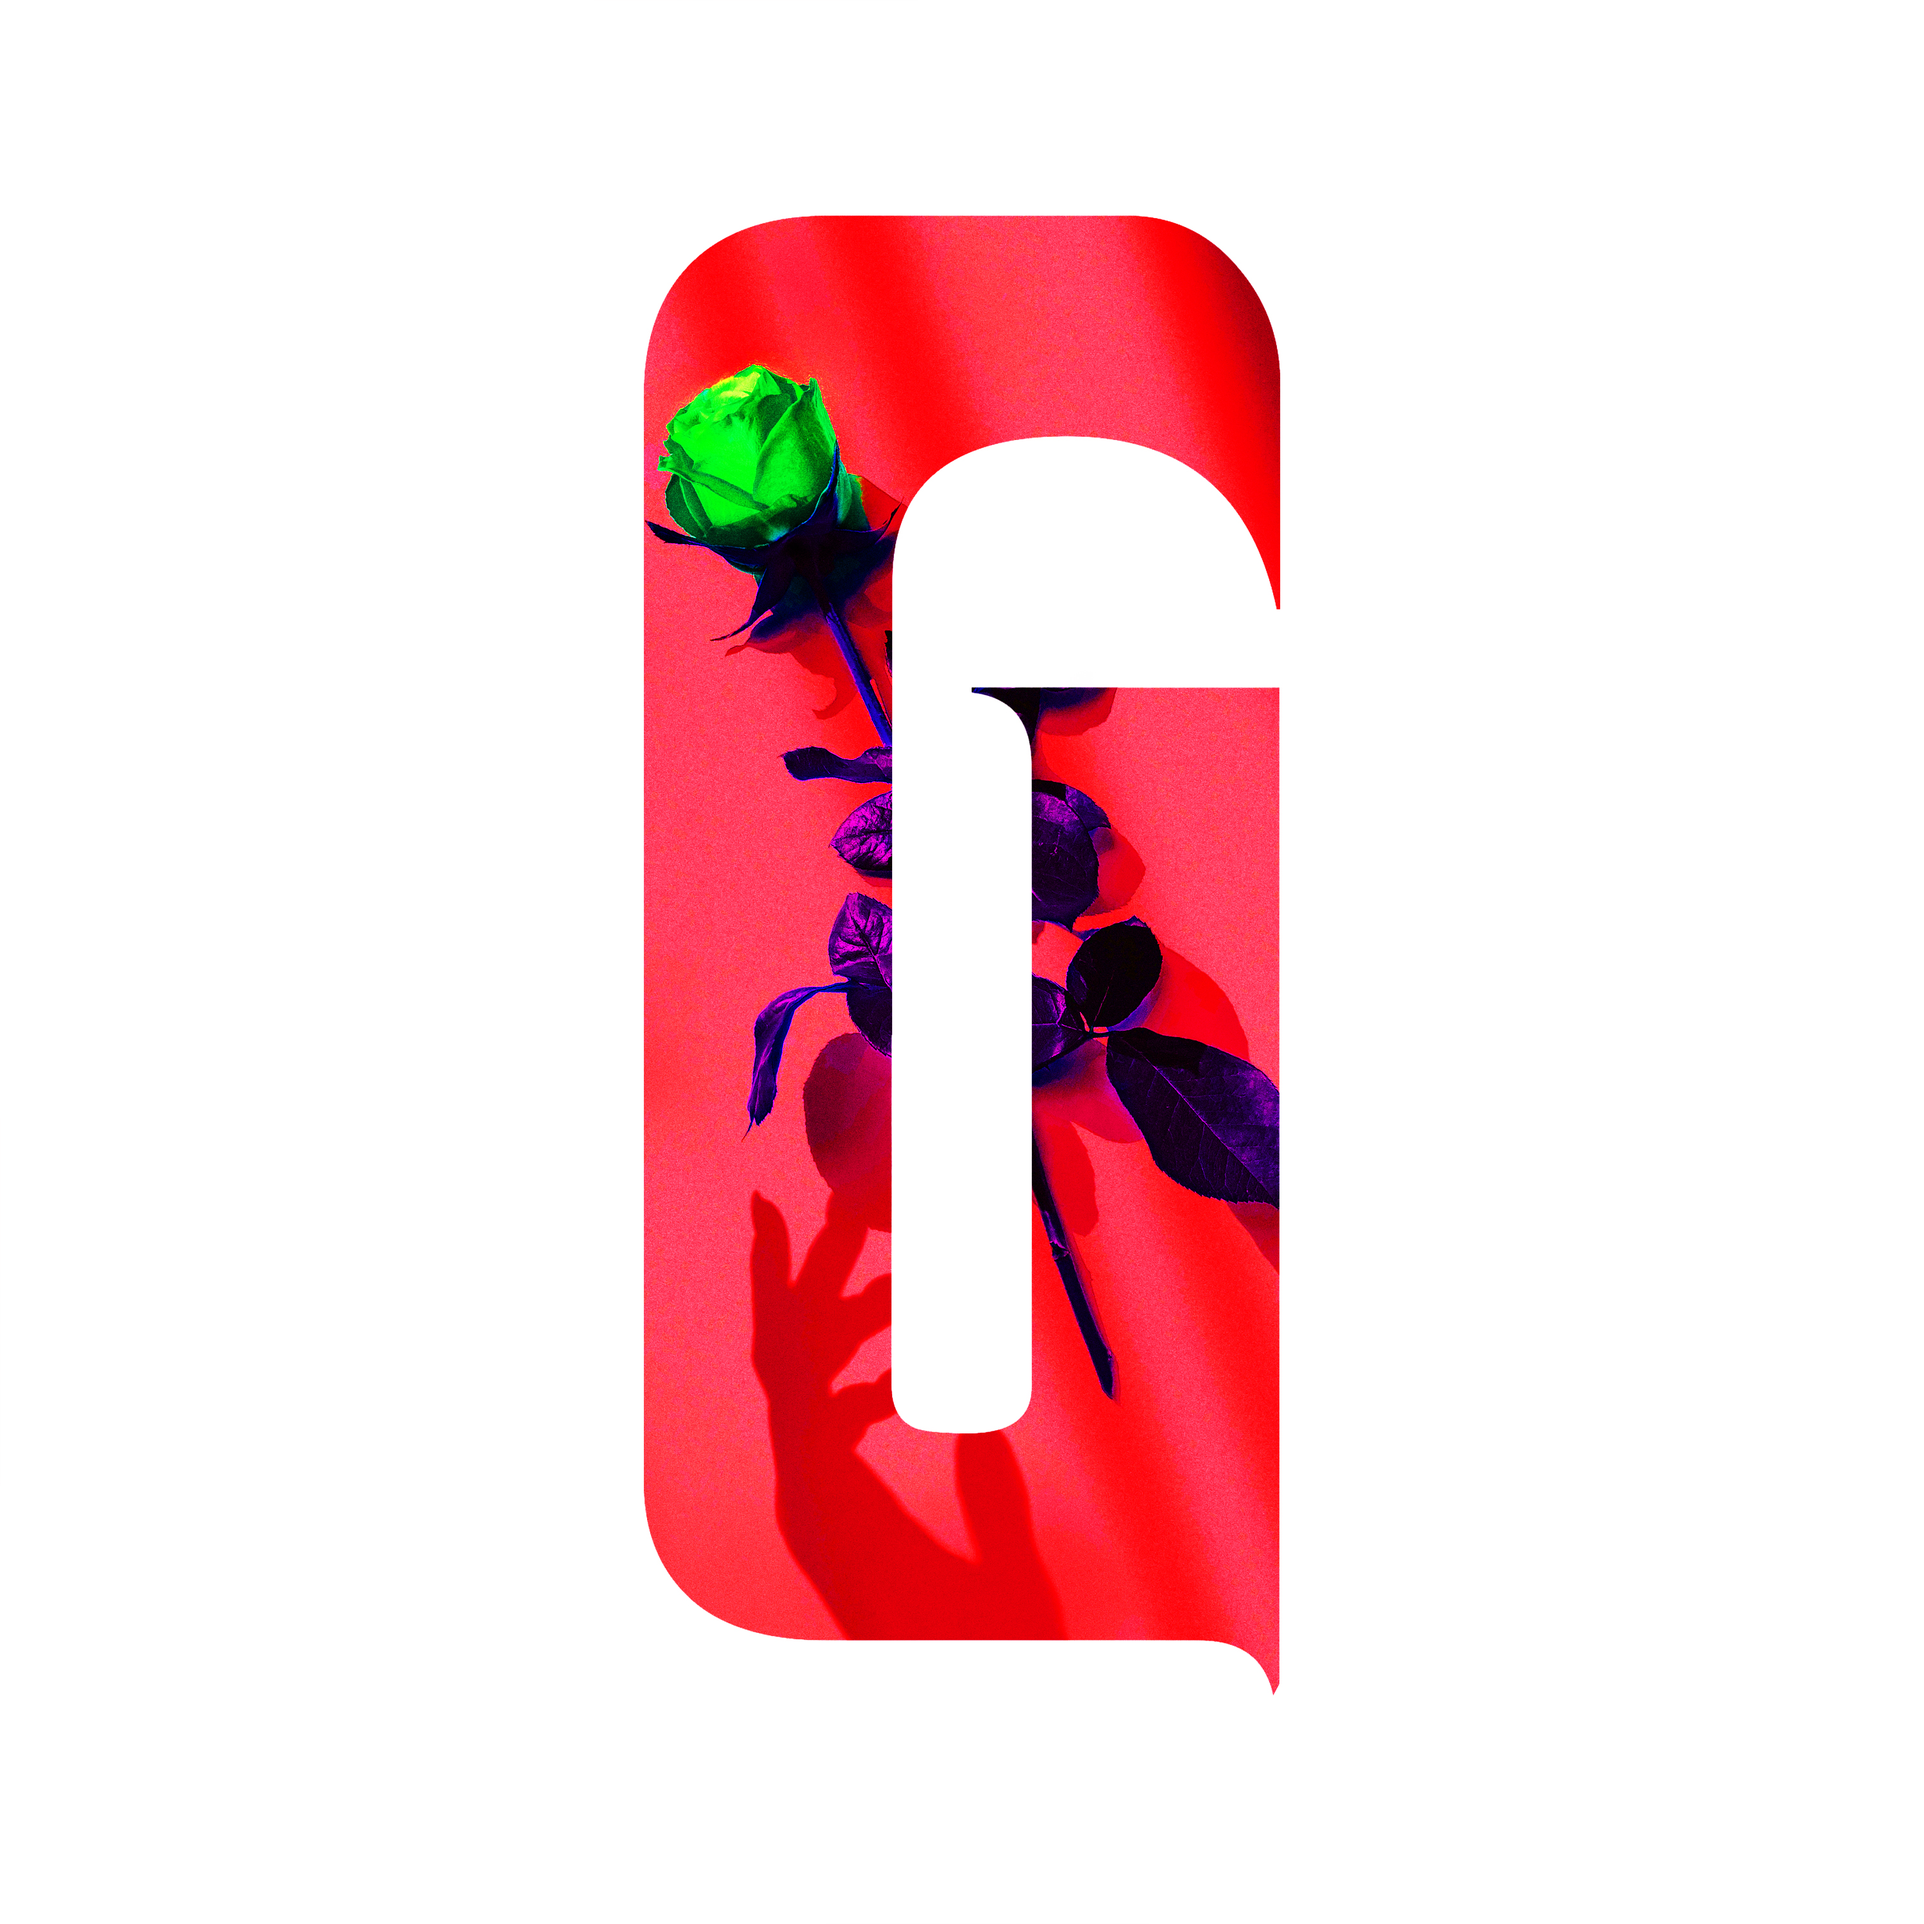
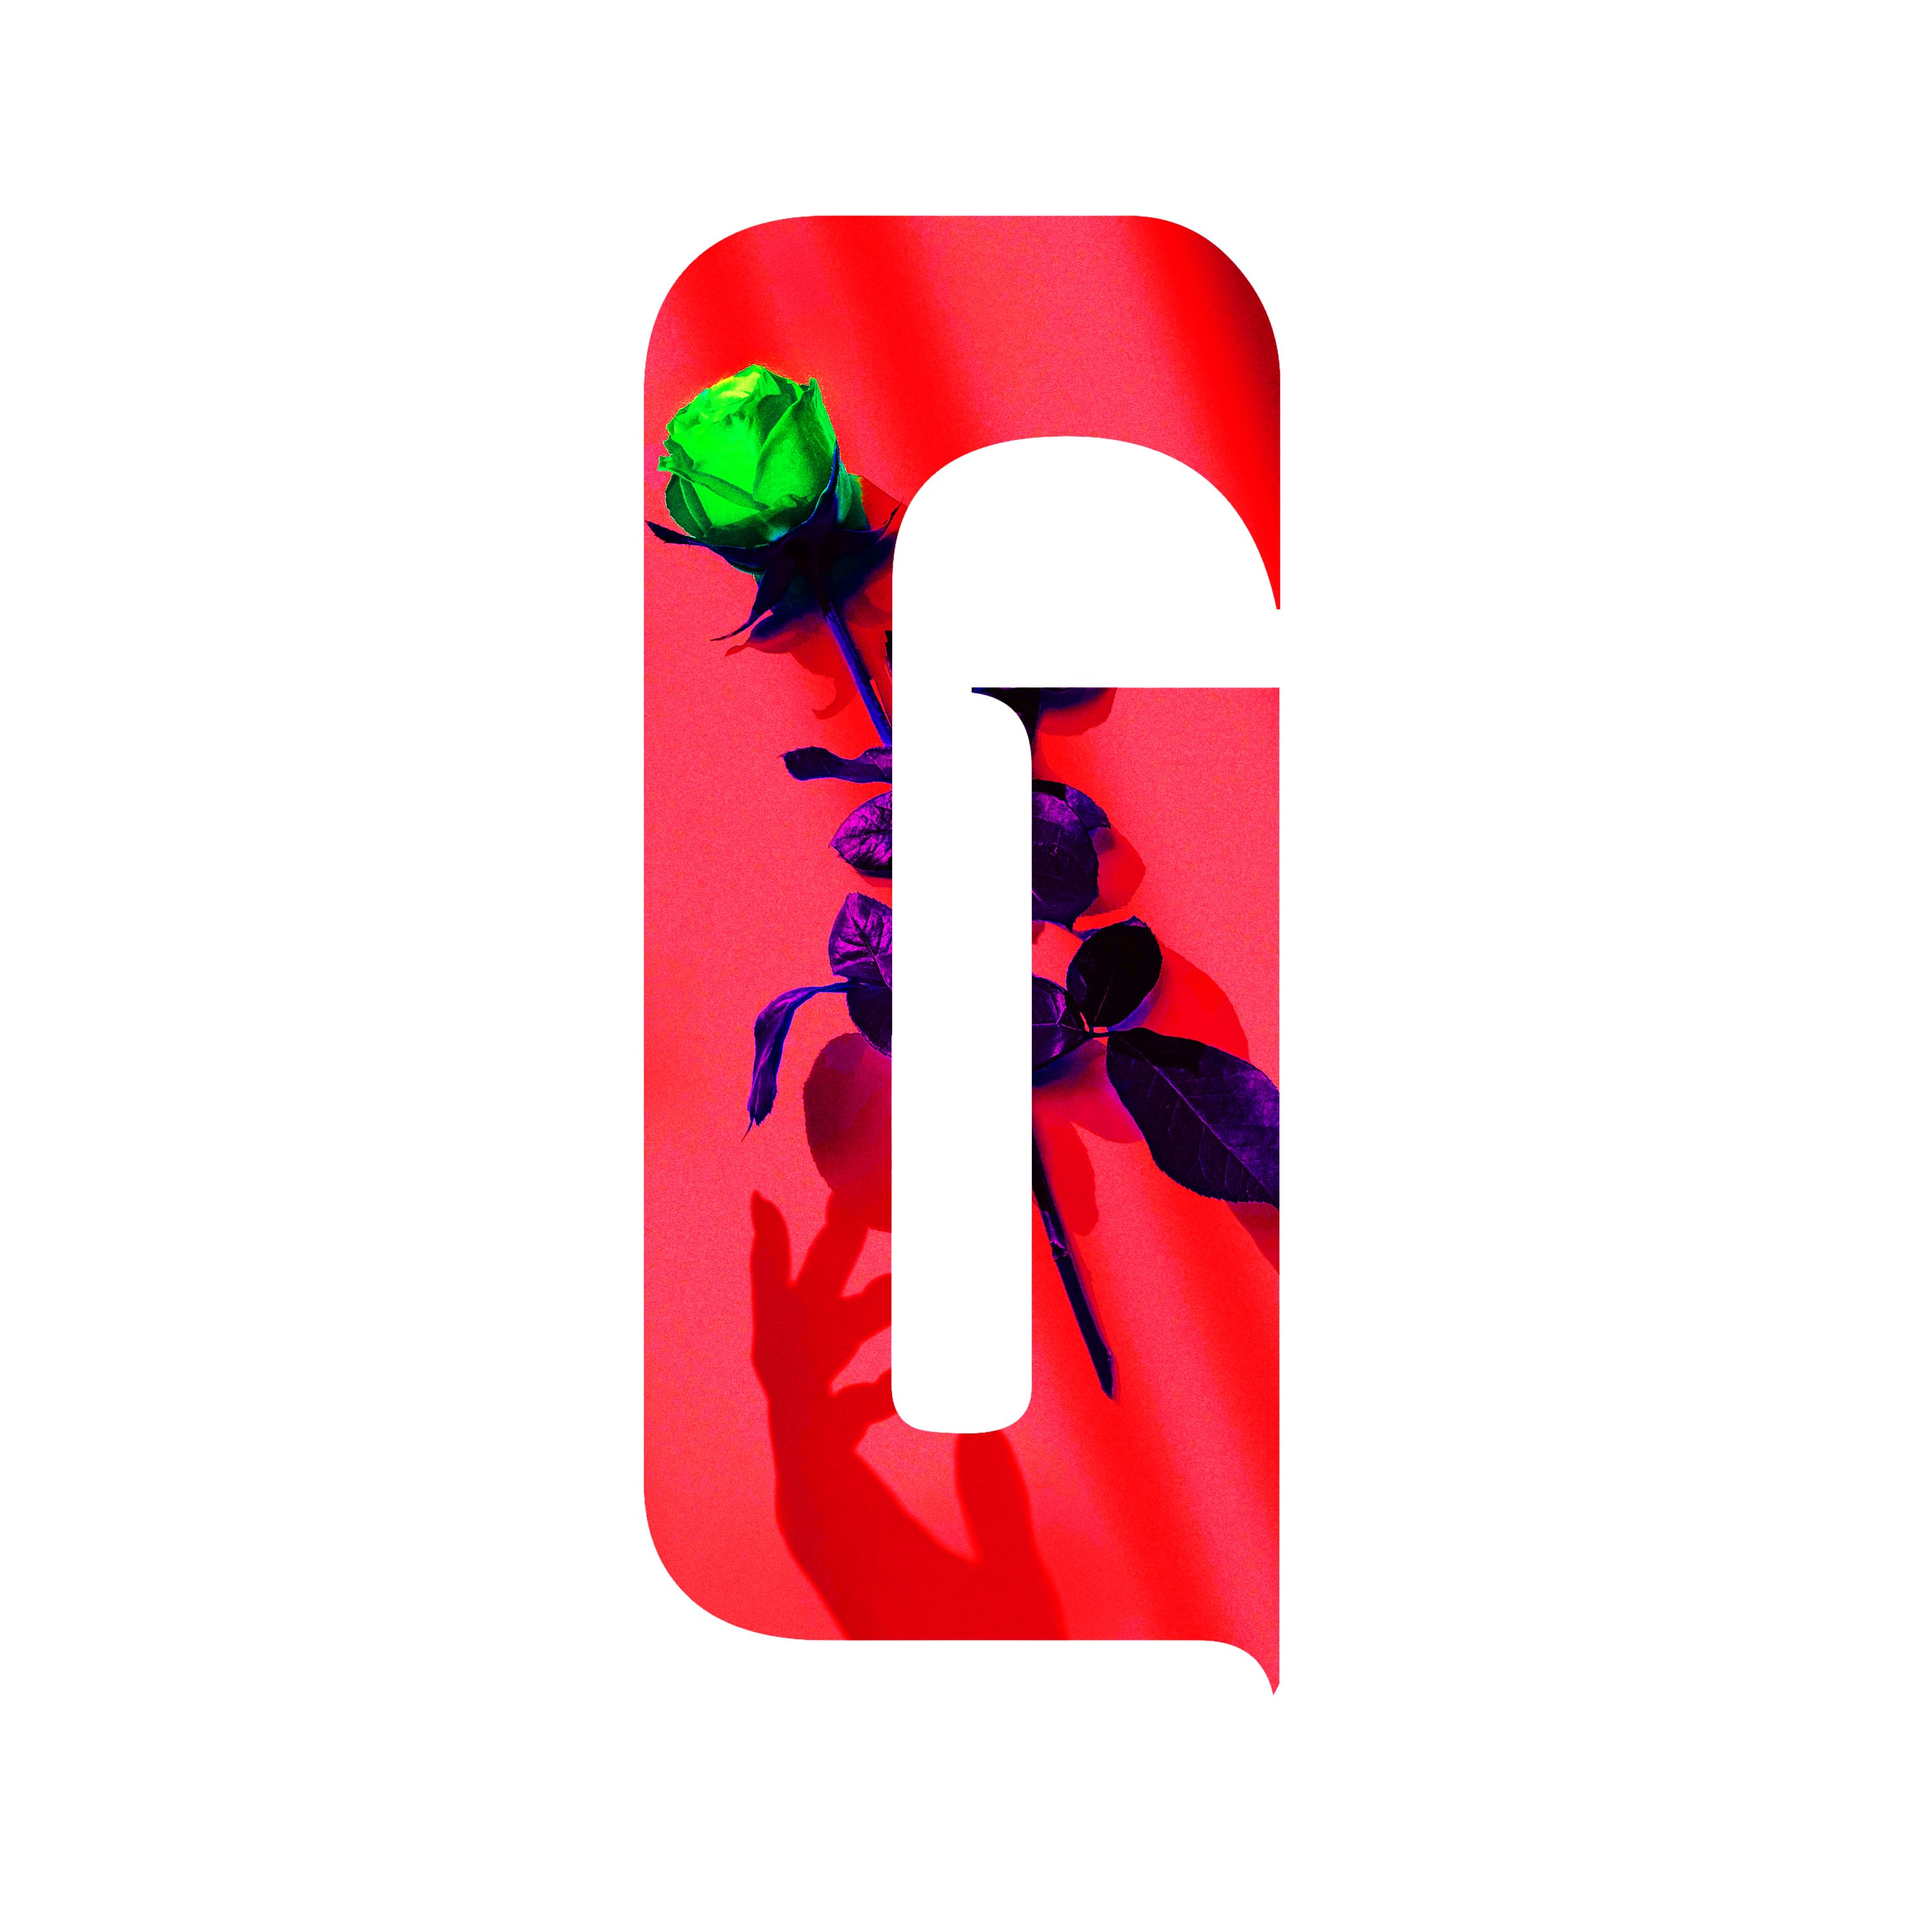
Compressed images, redirect 404 to home

diff --git a/src/utils/content.ts b/src/utils/content.ts
@@ -8,7 +8,7 @@ export const content: pageOptions[] = [
 	// 	buttonTextColor: "#FFFFFF",
 	// 	backgroundColor: "#000000",
 	// 	iconColor: "#FFFFFF",
-	// 	coverURL: "/images/nightmare-cover.png",
+	// 	coverURL: "/images/nightmare-cover.jpg",
 	// 	pagePath: "/nightmare",
 	// },
 	{
@@ -31,7 +31,7 @@ export const content: pageOptions[] = [
 		buttonTextColor: "#FFFFFF",
 		backgroundColor: "#FFFFFF",
 		iconColor: "#7C67A6",
-		coverURL: "/images/aurora-edit-cover.png",
+		coverURL: "/images/aurora-edit-cover.jpg",
 		youtubeLink: "https://www.youtube.com/watch?v=Bww_cOc51XQ",
 		pagePath: "/auroraedit",
 	},
@@ -42,7 +42,7 @@ export const content: pageOptions[] = [
 		buttonTextColor: "#FFFFFF",
 		backgroundColor: "#FFFFFF",
 		iconColor: "#90D8F6",
-		coverURL: "/images/miku-remix-cover.png",
+		coverURL: "/images/miku-remix-cover.jpg",
 		youtubeLink: "https://www.youtube.com/watch?v=Xqptytq79nQ",
 		pagePath: "/mikuremix",
 	},
@@ -53,7 +53,7 @@ export const content: pageOptions[] = [
 		buttonTextColor: "#FFFFFF",
 		backgroundColor: "#080808",
 		iconColor: "#FFFFFF",
-		coverURL: "/images/afterlife-cover.png",
+		coverURL: "/images/afterlife-cover.jpg",
 		youtubeLink: "https://www.youtube.com/watch?v=THFg6CL_VqU",
 		spotifyLink: "https://open.spotify.com/track/5qAomWwo2ocnha3158aP8H?si=92642bf48a3243ba",
 		soundcloudLink: "https://soundcloud.com/niek_o/afterlife-full",
@@ -66,7 +66,7 @@ export const content: pageOptions[] = [
 		buttonTextColor: "#FFFFFF",
 		backgroundColor: "#111111",
 		iconColor: "#FFFFFF",
-		coverURL: "/images/party-girl-cover.png",
+		coverURL: "/images/party-girl-cover.jpg",
 		youtubeLink: "https://www.youtube.com/watch?v=vwRuZuPILL0&list=PL41zV4hHhDYYe2ZSrK9eC2uIVV_tmodGL",
 		spotifyLink: "https://open.spotify.com/album/4zm0HzCLKT7XJO8bAz29P5?si=wlqJ6lHOTku8arx2Z8dmWQ",
 		soundcloudLink: "https://soundcloud.com/niek_o/sets/party-girl",

diff --git a/src/views/HoldMeNow.vue b/src/views/HoldMeNow.vue
@@ -6,7 +6,7 @@ const data = findItem("HOLD ME NOW")!
 </script>
 
 <template>
-  <img src="/images/hold-me-now-background.png" alt="Album cover" class="background object-cover w-full h-full">
+  <img src="/images/hold-me-now-background.jpg" alt="Album cover" class="background object-cover w-full h-full">
   <FullCard :track=data class="frame"/>
 </template>
 

diff --git a/src/router/index.ts b/src/router/index.ts
@@ -47,4 +47,12 @@ const router = createRouter({
 	routes,
 });
 
+router.beforeEach((to, from, next) => {
+	if (!to.matched.length) {
+		next("/");
+	} else {
+		next();
+	}
+});
+
 export default router;
